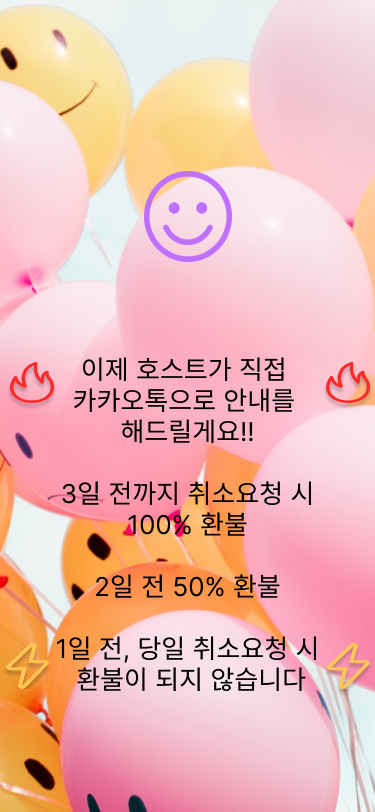
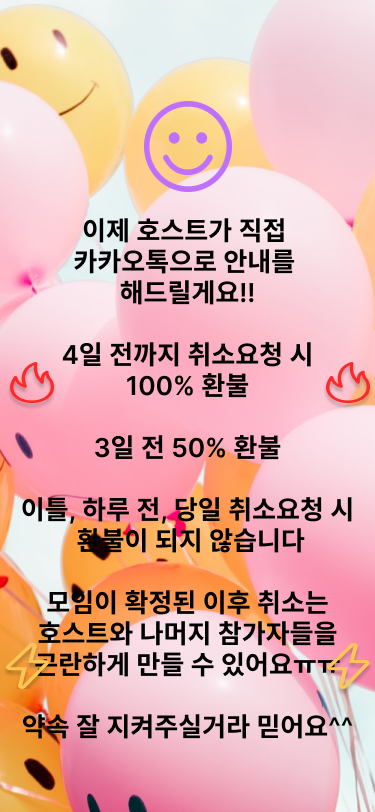
마무리 작업

Changed region(s): [[0.0587, 0.1232, 0.9387, 0.9236], [0.0587, 0.8621, 0.176, 0.9236]]

diff --git a/src/main/resources/views/main/main.html b/src/main/resources/views/main/main.html
@@ -166,8 +166,8 @@
                             </div>
                             <div class="d-flex talk-you mb20">
                                 <div class="d-flex flex-column talk-yellow">
-                                    <h4 class="mt-auto mb-auto ms-1">3일 전 취소시 100% 환불, 2일 전 50% 환불해드립니다.</h4>
-                                    <h4 class="mt-auto mb-auto ms-1">하루 전과 당일은 환불이 불가합니다.</h4>
+                                    <h4 class="mt-auto mb-auto ms-1">4일 전 취소시 100% 환불, 3일 전 50% 환불해드립니다.</h4>
+                                    <h4 class="mt-auto mb-auto ms-1">이틀, 하루 전과 당일은 환불이 불가합니다.</h4>
                                     <h4 class="mt-auto mb-auto ms-1">모임이 확정 된 상태에서 취소는 매우 곤란하기 때문에 약속을 꼭 지켜주세요^^</h4>
                                 </div>
                                 <div class="img-div">

diff --git a/src/main/resources/static/css/main/main.css b/src/main/resources/static/css/main/main.css
@@ -76,8 +76,8 @@
 }
 
 .swiper-slide > img {
-    width : 80%;
-    height : 80%;
+    width : 70%;
+    height : 70%;
     object-fit: contain;
 }
 
@@ -94,5 +94,9 @@
         padding: 5px;
         background: #FDF01B;
         max-width: 25vh;
+    }
+
+    .img-div > img {
+        width: 50px;
     }
 }

diff --git a/src/main/resources/static/css/index.css b/src/main/resources/static/css/index.css
@@ -94,7 +94,7 @@ html, body { height: 100vh; margin: 0; font-family: Happiness-Sans-Title}
 
 .kakao_c {
     object-fit: contain;
-    max-height: 5vh;
+    max-height: 4vh;
 }
 
 .kakao_c:hover {
